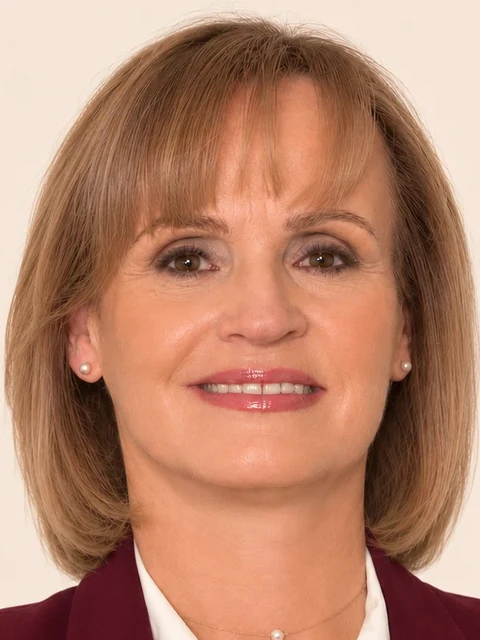
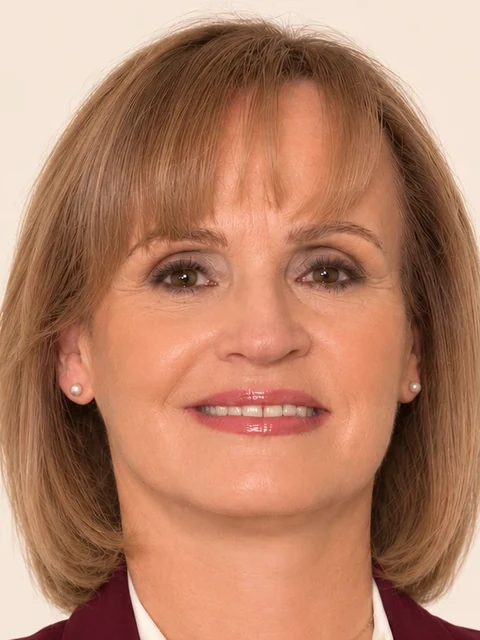
À propos (FR, EN, ES) : parcours 126 × 168 px, recadré juste sous les épaules, bord terracotta aligné sur le haut du titre « Une trajectoire singulière »

diff --git a/a-propos-es.html b/a-propos-es.html
@@ -43,7 +43,7 @@
 .mon-approche-photo .photo-ring::after{ content: ""; position: absolute; top: -12px; left: -12px; right: 12px; bottom: 12px; border: 1.5px solid #C75F62; pointer-events: none; z-index: 3; }
 @media (max-width: 640px){ .mon-approche-photo .photo-ring::after{ top: -8px; left: -8px; right: 8px; bottom: 8px; } }
 /* Parcours : portrait rectangulaire avec le même cadre terracotta décalé que l'accueil */
-.parcours-photo{ width: 140px !important; height: 187px !important; border-radius: 0 !important; border: none !important; box-shadow: none !important; margin-top: 0 !important; align-self: center !important; position: relative !important; overflow: visible !important; flex-shrink: 0; background: transparent !important; }.parcours-photo img{ display: block; width: 100% !important; height: 100% !important; object-fit: cover; object-position: center top; }.parcours-photo::after{ content: ""; position: absolute; top: -8px; left: -8px; right: 8px; bottom: 8px; border: 1.5px solid #C75F62; pointer-events: none; z-index: 3; }@media (min-width:768px){.parcours-header .parcours-photo{align-self:flex-start !important;margin-top:-30px !important}}@media (max-width:767px){.parcours-header{flex-direction:column !important}.parcours-header .parcours-photo{margin:0 auto 22px !important}}
+.parcours-photo{ width: 126px !important; height: 168px !important; border-radius: 0 !important; border: none !important; box-shadow: none !important; margin-top: 0 !important; align-self: center !important; position: relative !important; overflow: visible !important; flex-shrink: 0; background: transparent !important; }.parcours-photo img{ display: block; width: 100% !important; height: 100% !important; object-fit: cover; object-position: center top; }.parcours-photo::after{ content: ""; position: absolute; top: -8px; left: -8px; right: 8px; bottom: 8px; border: 1.5px solid #C75F62; pointer-events: none; z-index: 3; }@media (min-width:768px){.parcours-header .parcours-photo{align-self:flex-start !important;margin-top:46px !important}}@media (max-width:767px){.parcours-header{flex-direction:column !important}.parcours-header .parcours-photo{margin:0 auto 22px !important}}
 /* À propos : lignes de conviction, principe et mission en Inter (charte), plus nettes */
 .about-principe-sub, .about-lede--voice, .about-lede--voice em, .about-principe-sub strong{ font-family: var(--sans) !important; font-style: normal !important; font-weight: 400 !important; font-size: clamp(1.1rem, 1.7vw, 1.3rem) !important; letter-spacing: -.005em !important; line-height: 1.6 !important; color: #633B4A !important; }
 .about-principe-sub strong{ font-weight: 600 !important; }
@@ -127,7 +127,7 @@
     <span class="parcours-top-sep" aria-hidden="true"></span>
     <div class="parcours-header reveal">
       <div class="parcours-photo">
-        <img src="assets/photo-valerie-parcours.webp" alt="Valérie Mailland" width="140" height="187" loading="lazy" decoding="async">
+        <img src="assets/photo-valerie-parcours.webp" alt="Valérie Mailland" width="126" height="168" loading="lazy" decoding="async">
       </div>
       <div class="parcours-header-text">
         <span class="eyebrow">Trayectoria</span>

diff --git a/a-propos.html b/a-propos.html
@@ -43,7 +43,7 @@
 .mon-approche-photo .photo-ring::after{ content: ""; position: absolute; top: -12px; left: -12px; right: 12px; bottom: 12px; border: 1.5px solid #C75F62; pointer-events: none; z-index: 3; }
 @media (max-width: 640px){ .mon-approche-photo .photo-ring::after{ top: -8px; left: -8px; right: 8px; bottom: 8px; } }
 /* Parcours : portrait rectangulaire avec le même cadre terracotta décalé que l'accueil */
-.parcours-photo{ width: 140px !important; height: 187px !important; border-radius: 0 !important; border: none !important; box-shadow: none !important; margin-top: 0 !important; align-self: center !important; position: relative !important; overflow: visible !important; flex-shrink: 0; background: transparent !important; }.parcours-photo img{ display: block; width: 100% !important; height: 100% !important; object-fit: cover; object-position: center top; }.parcours-photo::after{ content: ""; position: absolute; top: -8px; left: -8px; right: 8px; bottom: 8px; border: 1.5px solid #C75F62; pointer-events: none; z-index: 3; }@media (min-width:768px){.parcours-header .parcours-photo{align-self:flex-start !important;margin-top:-30px !important}}@media (max-width:767px){.parcours-header{flex-direction:column !important}.parcours-header .parcours-photo{margin:0 auto 22px !important}}
+.parcours-photo{ width: 126px !important; height: 168px !important; border-radius: 0 !important; border: none !important; box-shadow: none !important; margin-top: 0 !important; align-self: center !important; position: relative !important; overflow: visible !important; flex-shrink: 0; background: transparent !important; }.parcours-photo img{ display: block; width: 100% !important; height: 100% !important; object-fit: cover; object-position: center top; }.parcours-photo::after{ content: ""; position: absolute; top: -8px; left: -8px; right: 8px; bottom: 8px; border: 1.5px solid #C75F62; pointer-events: none; z-index: 3; }@media (min-width:768px){.parcours-header .parcours-photo{align-self:flex-start !important;margin-top:46px !important}}@media (max-width:767px){.parcours-header{flex-direction:column !important}.parcours-header .parcours-photo{margin:0 auto 22px !important}}
 /* À propos : lignes de conviction, principe et mission en Inter (charte), plus nettes */
 .about-principe-sub, .about-lede--voice, .about-lede--voice em, .about-principe-sub strong{ font-family: var(--sans) !important; font-style: normal !important; font-weight: 400 !important; font-size: clamp(1.1rem, 1.7vw, 1.3rem) !important; letter-spacing: -.005em !important; line-height: 1.6 !important; color: #633B4A !important; }
 .about-principe-sub strong{ font-weight: 600 !important; }
@@ -127,7 +127,7 @@
     <span class="parcours-top-sep" aria-hidden="true"></span>
     <div class="parcours-header reveal">
       <div class="parcours-photo">
-        <img src="assets/photo-valerie-parcours.webp" alt="Valérie Mailland" width="140" height="187" loading="lazy" decoding="async">
+        <img src="assets/photo-valerie-parcours.webp" alt="Valérie Mailland" width="126" height="168" loading="lazy" decoding="async">
       </div>
       <div class="parcours-header-text">
         <span class="eyebrow">Parcours</span>

diff --git a/a-propos-en.html b/a-propos-en.html
@@ -43,7 +43,7 @@
 .mon-approche-photo .photo-ring::after{ content: ""; position: absolute; top: -12px; left: -12px; right: 12px; bottom: 12px; border: 1.5px solid #C75F62; pointer-events: none; z-index: 3; }
 @media (max-width: 640px){ .mon-approche-photo .photo-ring::after{ top: -8px; left: -8px; right: 8px; bottom: 8px; } }
 /* Parcours : portrait rectangulaire avec le même cadre terracotta décalé que l'accueil */
-.parcours-photo{ width: 140px !important; height: 187px !important; border-radius: 0 !important; border: none !important; box-shadow: none !important; margin-top: 0 !important; align-self: center !important; position: relative !important; overflow: visible !important; flex-shrink: 0; background: transparent !important; }.parcours-photo img{ display: block; width: 100% !important; height: 100% !important; object-fit: cover; object-position: center top; }.parcours-photo::after{ content: ""; position: absolute; top: -8px; left: -8px; right: 8px; bottom: 8px; border: 1.5px solid #C75F62; pointer-events: none; z-index: 3; }@media (min-width:768px){.parcours-header .parcours-photo{align-self:flex-start !important;margin-top:-30px !important}}@media (max-width:767px){.parcours-header{flex-direction:column !important}.parcours-header .parcours-photo{margin:0 auto 22px !important}}
+.parcours-photo{ width: 126px !important; height: 168px !important; border-radius: 0 !important; border: none !important; box-shadow: none !important; margin-top: 0 !important; align-self: center !important; position: relative !important; overflow: visible !important; flex-shrink: 0; background: transparent !important; }.parcours-photo img{ display: block; width: 100% !important; height: 100% !important; object-fit: cover; object-position: center top; }.parcours-photo::after{ content: ""; position: absolute; top: -8px; left: -8px; right: 8px; bottom: 8px; border: 1.5px solid #C75F62; pointer-events: none; z-index: 3; }@media (min-width:768px){.parcours-header .parcours-photo{align-self:flex-start !important;margin-top:46px !important}}@media (max-width:767px){.parcours-header{flex-direction:column !important}.parcours-header .parcours-photo{margin:0 auto 22px !important}}
 /* À propos : lignes de conviction, principe et mission en Inter (charte), plus nettes */
 .about-principe-sub, .about-lede--voice, .about-lede--voice em, .about-principe-sub strong{ font-family: var(--sans) !important; font-style: normal !important; font-weight: 400 !important; font-size: clamp(1.1rem, 1.7vw, 1.3rem) !important; letter-spacing: -.005em !important; line-height: 1.6 !important; color: #633B4A !important; }
 .about-principe-sub strong{ font-weight: 600 !important; }
@@ -127,7 +127,7 @@
     <span class="parcours-top-sep" aria-hidden="true"></span>
     <div class="parcours-header reveal">
       <div class="parcours-photo">
-        <img src="assets/photo-valerie-parcours.webp" alt="Valérie Mailland" width="140" height="187" loading="lazy" decoding="async">
+        <img src="assets/photo-valerie-parcours.webp" alt="Valérie Mailland" width="126" height="168" loading="lazy" decoding="async">
       </div>
       <div class="parcours-header-text">
         <span class="eyebrow">Journey</span>
